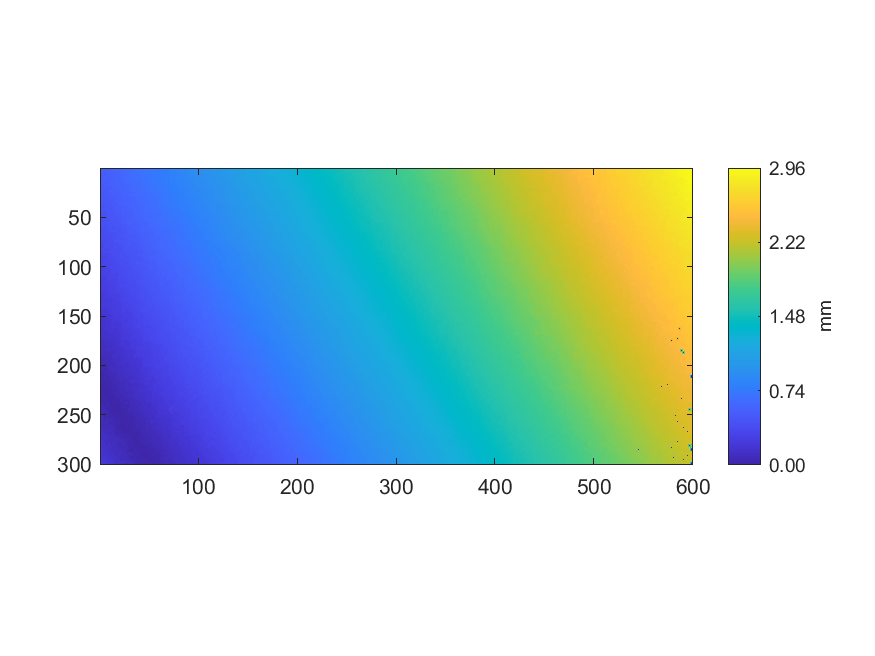
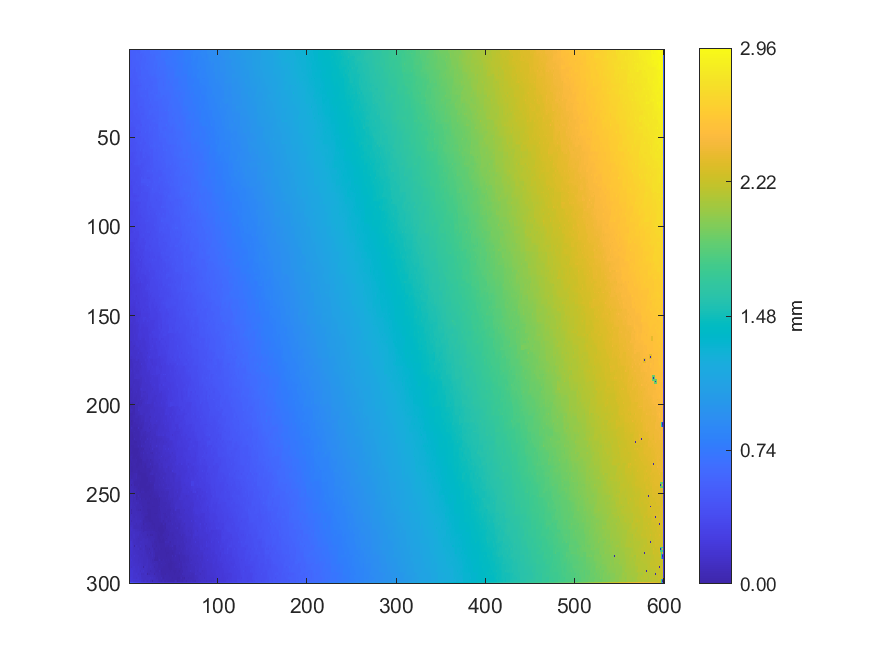
aspect ratio corrected

diff --git a/depthClosed.m b/depthClosed.m
@@ -140,7 +140,8 @@ writematrix(Estimation, fullTextPath3);
 % Save Compressive_norm data as a figure
 fig1 = figure('Visible', 'off'); 
 imagesc(CompressiveNorm); 
-axis equal;
+pbaspect([1 1 1])
+axis tight;
 minData = fixedMinData; 
 maxData = fixedMaxData;
 cb = colorbar; 
@@ -157,7 +158,7 @@ saveas(fig1, fullImagePath, 'png');
 % Save CompressiveUpsampled data as a figure with detailed colorbar settings
 fig2 = figure('Visible', 'off'); 
 imagesc(CompressiveUpsampled);
-axis equal;
+pbaspect([1 1 1])
 axis tight;
 minDataUpsampled = fixedMinData;
 maxDataUpsampled = fixedMaxData;
@@ -175,7 +176,7 @@ saveas(fig2, fullImagePath2, 'png');
 % Save Estimation data as a figure with detailed colorbar settings
 fig3 = figure('Visible', 'off'); 
 imagesc(Estimation);
-axis equal;
+pbaspect([1 1 1])
 axis tight;
 minDataEstimation = fixedMinData;
 maxDataEstimation = fixedMaxData;
